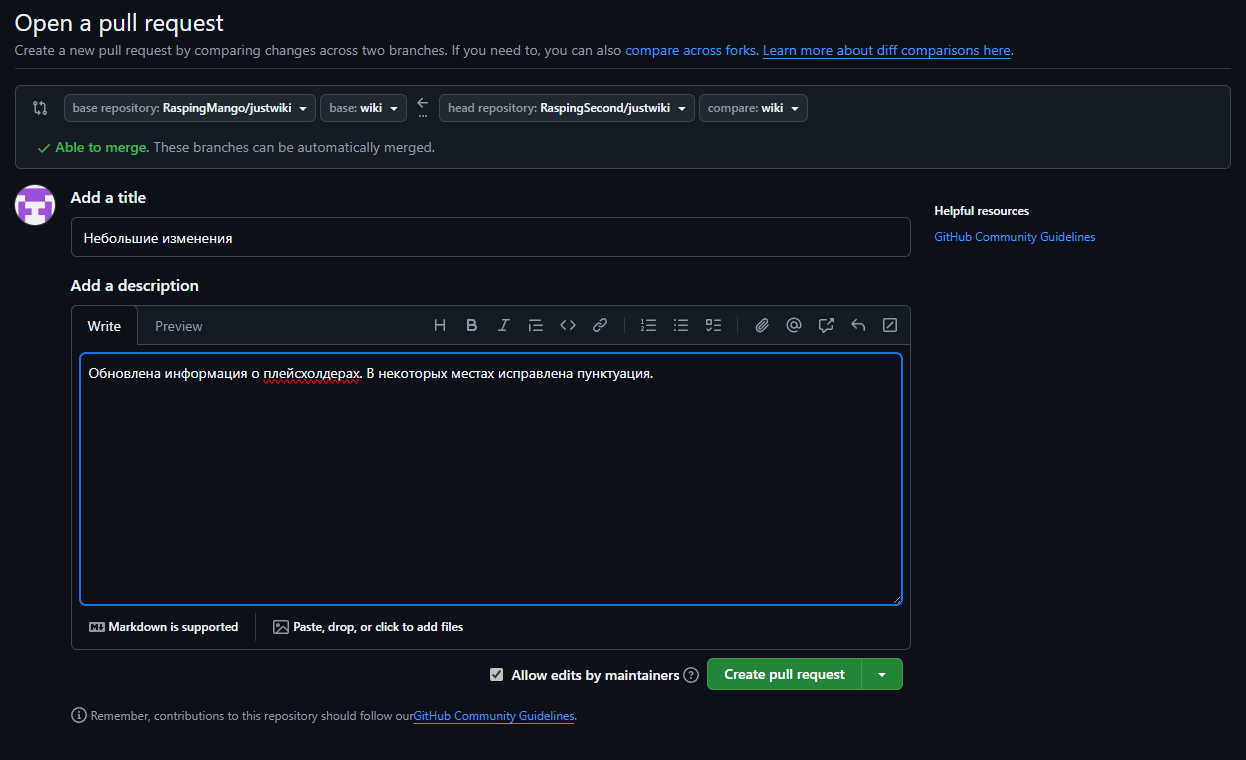
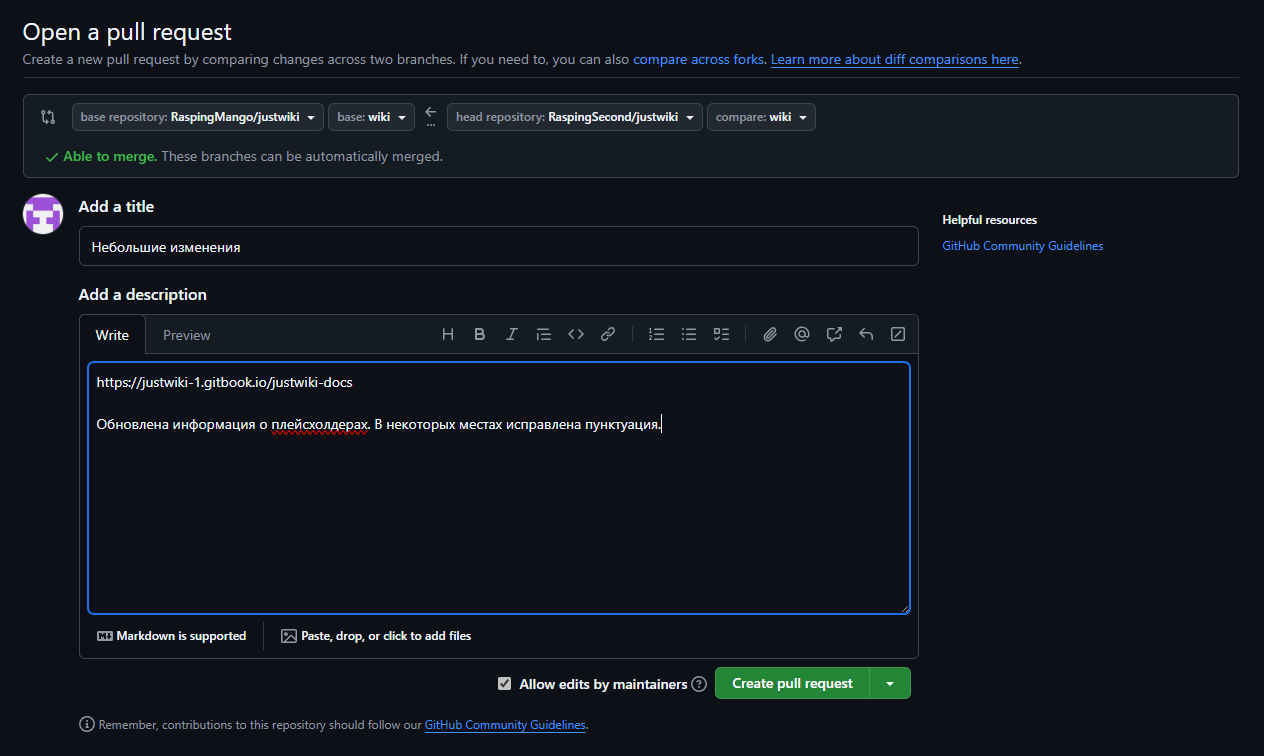
GITBOOK-850: No subject

diff --git a/editing.md b/editing.md
@@ -46,6 +46,16 @@ hidden: true
 {% endstep %}
 
 {% step %}
+### Опубликуйте сайт
+
+Выложите свою версию сайта в открытый доступ.
+
+<figure><img src=".gitbook/assets/gitbook_publish.png" alt="" width="547"><figcaption><p>Нажмите кнопку "Publish to the web".</p></figcaption></figure>
+
+После того, как вы опубликовали сайт, скопируйте ссылку на него.
+{% endstep %}
+
+{% step %}
 ### Создайте запрос на слияние
 
 Перейдите на страницу своего форка JustWiki на GitHub.
@@ -56,7 +66,7 @@ hidden: true
 
 <figure><img src=".gitbook/assets/github_pull_request_summary.png" alt="" width="563"><figcaption></figcaption></figure>
 
-По желанию, можете добавить описание своему запросу на слияние. Затем нажмите **Create pull request**.
+Вставьте скопированную ссылку на вашу версию сайта в описание. По желанию, можете также перечислить свои изменения в описании. Затем нажмите **Create pull request**.
 
 В результате ваш запрос пройдёт модерацию и будет принят при условии, что все внесённые вами изменения корректны.
 {% endstep %}
